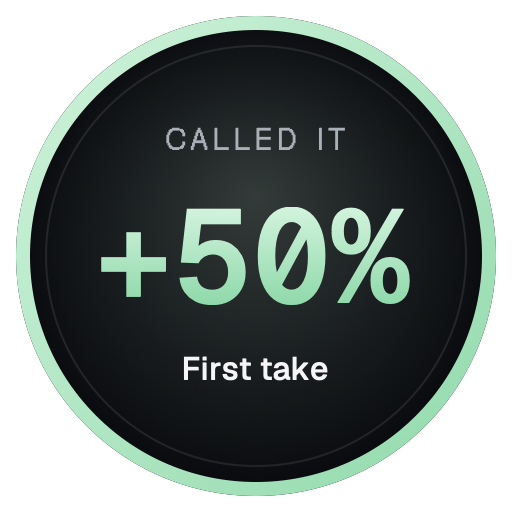
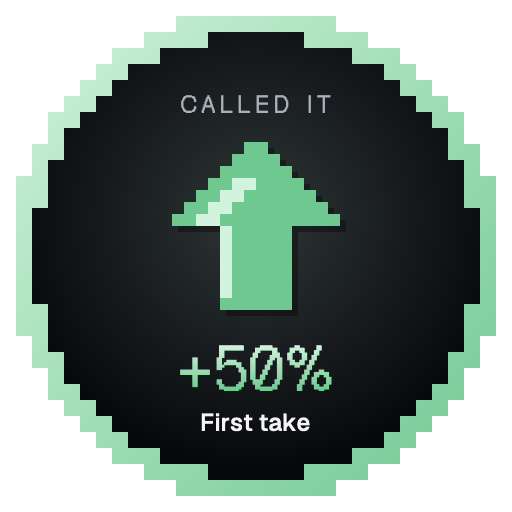
Badges: pixel-art medallions
render.swift draws each badge as a dark medallion with a stepped pixel
ring, a 16x16 pixel emblem (speech bubble, arrow, trophy, crown, rocket)
and the figure in Geist Pixel, with the caption under it. Same five slugs
and metadata; images re-rendered.

diff --git a/infra/badges/render.swift b/infra/badges/render.swift
@@ -1,8 +1,9 @@
-// Renders the badge catalog's images (512×512 PNG) into infra/badges/images/.
+// Renders the badge catalog's images (512×512 PNG) into infra/badges/images/: a dark medallion with a
+// stepped pixel ring, a 16×16 pixel emblem, and the figure in the wordmark's pixel font.
 //
 //   swift infra/badges/render.swift
 //
-// CoreGraphics and CoreText only, with the app's Geist fonts and palette
+// CoreGraphics and CoreText only, with the app's Geist and Geist Pixel fonts and palette
 // (apps/ios/Thesis/DesignSystem/Palette.swift), so nothing needs installing. Rerun after changing
 // a design; `pnpm badges:upload` puts the images and their metadata in Supabase Storage.
 import AppKit
@@ -10,7 +11,7 @@ import CoreText
 
 let root = URL(fileURLWithPath: #filePath).deletingLastPathComponent()
 let fonts = root.appendingPathComponent("../../apps/ios/Thesis/Resources/Fonts").standardized
-for name in ["Geist-SemiBold", "Geist-Medium", "GeistMono-SemiBold", "GeistSerif-Regular", "GeistPixel-Square"] {
+for name in ["Geist-Medium", "GeistPixel-Square"] {
     CTFontManagerRegisterFontsForURL(fonts.appendingPathComponent("\(name).ttf") as CFURL, .process, nil)
 }
 
@@ -20,22 +21,119 @@ func rgb(_ hex: UInt32, _ a: CGFloat = 1) -> CGColor {
 
 struct Badge {
     let slug: String
-    /// Small caps over the figure.
+    /// Small caps over the emblem.
     let kicker: String
+    /// A key of `emblems`.
+    let emblem: String
+    /// Under the emblem, in the pixel font.
     let figure: String
-    let figureFont: String
     /// Under the figure.
     let caption: String
-    /// Ring and figure colors, top to bottom.
+    /// Light and dark tone: the ring and figure run between them; the emblem uses the dark
+    /// tone, and the light one for its highlights.
     let colors: [UInt32]
 }
 
 let badges = [
-    Badge(slug: "first-take", kicker: "THESIS", figure: "\u{201C}", figureFont: "GeistSerif-Regular", caption: "First take", colors: [0xF2F3F5, 0x9AA0AA]),
-    Badge(slug: "first-50", kicker: "CALLED IT", figure: "+50%", figureFont: "GeistMono-SemiBold", caption: "First take", colors: [0xC9F2D5, 0x7FD39A]),
-    Badge(slug: "first-100", kicker: "CALLED IT", figure: "+100%", figureFont: "GeistMono-SemiBold", caption: "First take", colors: [0xF6E3A1, 0xE0B44C]),
-    Badge(slug: "ten-50", kicker: "CALLED IT", figure: "10×", figureFont: "GeistMono-SemiBold", caption: "Ten takes at +50%", colors: [0xA9E3BA, 0x6FC7E8]),
-    Badge(slug: "over-1000", kicker: "CALLED IT", figure: "+1,000%", figureFont: "GeistMono-SemiBold", caption: "One take", colors: [0xA9E3BA, 0xF3B6CC, 0xC9B6F3]),
+    Badge(slug: "first-take", kicker: "THESIS", emblem: "quote", figure: "1ST", caption: "First take", colors: [0xF2F3F5, 0x9AA0AA]),
+    Badge(slug: "first-50", kicker: "CALLED IT", emblem: "arrow", figure: "+50%", caption: "First take", colors: [0xC9F2D5, 0x5FBF7E]),
+    Badge(slug: "first-100", kicker: "CALLED IT", emblem: "trophy", figure: "+100%", caption: "First take", colors: [0xF6E3A1, 0xD9A43A]),
+    Badge(slug: "ten-50", kicker: "CALLED IT", emblem: "crown", figure: "10×", caption: "Ten takes at +50%", colors: [0xB8F0F2, 0x4FB3D9]),
+    Badge(slug: "over-1000", kicker: "CALLED IT", emblem: "rocket", figure: "+1,000%", caption: "One take", colors: [0xF3B6CC, 0xA98BEF]),
+]
+
+/// 16×16 pixel emblems, top row first: "#" dark tone, "+" light tone, "." empty.
+let emblems: [String: [String]] = [
+    "quote": [
+        "................",
+        "................",
+        "................",
+        "..############..",
+        ".##############.",
+        ".####+####+####.",
+        ".###++###++####.",
+        ".###++###++####.",
+        ".##############.",
+        ".##############.",
+        "..############..",
+        "...##...........",
+        "...#............",
+        "................",
+        "................",
+        "................",
+    ],
+    "arrow": [
+        "................",
+        ".......##.......",
+        "......####......",
+        ".....######.....",
+        "....##++####....",
+        "...##++######...",
+        "..##++########..",
+        ".##++##########.",
+        ".....+#####.....",
+        ".....+#####.....",
+        ".....+#####.....",
+        ".....+#####.....",
+        ".....+#####.....",
+        ".....+#####.....",
+        ".....######.....",
+        "................",
+    ],
+    "trophy": [
+        "................",
+        "..############..",
+        "##.#+++######.##",
+        "#..#+++######..#",
+        "#..#+++######..#",
+        ".#.#+++######.#.",
+        "...###+######...",
+        "....##+#####....",
+        ".....######.....",
+        "......####......",
+        ".......##.......",
+        ".......##.......",
+        ".....######.....",
+        "....########....",
+        "....#++++++#....",
+        "....########....",
+    ],
+    "crown": [
+        "................",
+        "................",
+        "................",
+        ".#.....##.....#.",
+        ".##....##....##.",
+        ".###..####..###.",
+        ".####.####.####.",
+        ".##############.",
+        ".##############.",
+        ".##+##+##+##+##.",
+        ".##############.",
+        ".++++++++++++++.",
+        ".##############.",
+        "................",
+        "................",
+        "................",
+    ],
+    "rocket": [
+        ".......##.......",
+        "......####......",
+        ".....##++##.....",
+        ".....#++++#.....",
+        ".....######.....",
+        ".....##..##.....",
+        ".....##..##.....",
+        ".....######.....",
+        ".....######.....",
+        "....########....",
+        "...##.####.##...",
+        "..###.####.###..",
+        "..##..++++..##..",
+        "......++++......",
+        ".......++.......",
+        "................",
+    ],
 ]
 
 let size: CGFloat = 512
@@ -86,34 +184,51 @@ func render(_ badge: Badge) throws {
     let center = CGPoint(x: size / 2, y: size / 2)
 
     // Medallion: the app's dark background with a soft glow of the badge's color.
-    let disc = CGRect(x: 16, y: 16, width: size - 32, height: size - 32)
+    let disc = CGRect(x: 24, y: 24, width: size - 48, height: size - 48)
     ctx.saveGState()
     ctx.addEllipse(in: disc)
     ctx.clip()
     ctx.setFillColor(rgb(0x07080B))
     ctx.fill(disc)
-    let glow = CGGradient(colorsSpace: space, colors: [rgb(badge.colors[0], 0.22), rgb(badge.colors[0], 0)] as CFArray, locations: [0, 1])!
-    ctx.drawRadialGradient(glow, startCenter: CGPoint(x: center.x, y: center.y + 60), startRadius: 0, endCenter: center, endRadius: 250, options: [])
+    let glow = CGGradient(colorsSpace: space, colors: [rgb(badge.colors[0], 0.2), rgb(badge.colors[0], 0)] as CFArray, locations: [0, 1])!
+    ctx.drawRadialGradient(glow, startCenter: CGPoint(x: center.x, y: center.y + 40), startRadius: 0, endCenter: CGPoint(x: center.x, y: center.y + 40), endRadius: 256, options: [])
     ctx.restoreGState()
 
-    // Gradient ring, and a hairline inside it.
+    // Stepped pixel ring: the 16 px cells whose centers sit 222–246 px out, filled with the gradient.
+    let cell: CGFloat = 16
+    var ring: [CGRect] = []
+    for y in stride(from: 0, to: size, by: cell) {
+        for x in stride(from: 0, to: size, by: cell) {
+            let d = hypot(x + cell / 2 - center.x, y + cell / 2 - center.y)
+            if d >= 222 && d < 246 { ring.append(CGRect(x: x, y: y, width: cell, height: cell)) }
+        }
+    }
     ctx.saveGState()
-    ctx.setLineWidth(14)
-    ctx.addEllipse(in: disc.insetBy(dx: 7, dy: 7))
-    ctx.replacePathWithStrokedPath()
+    ctx.addRects(ring)
     ctx.clip()
     ctx.drawLinearGradient(gradient, start: CGPoint(x: 0, y: size), end: CGPoint(x: size, y: 0), options: [])
     ctx.restoreGState()
-    ctx.setStrokeColor(rgb(0xFFFFFF, 0.09))
-    ctx.setLineWidth(2)
-    ctx.strokeEllipse(in: disc.insetBy(dx: 30, dy: 30))
 
-    // Kicker, figure, caption.
-    draw(text(badge.kicker, font: "GeistPixel-Square", size: 30, color: rgb(0x9AA0AA), kern: 4), in: ctx, centerY: size * 0.73)
-    let figureSize: CGFloat = badge.figure.count >= 6 ? 92 : badge.figure.count >= 5 ? 112 : badge.figure == "\u{201C}" ? 340 : 132
-    let figureY = badge.figure == "\u{201C}" ? size * 0.51 : size * 0.5
-    drawGradient(text(badge.figure, font: badge.figureFont, size: figureSize, color: rgb(0xFFFFFF)), in: ctx, centerY: figureY, colors: colors)
-    draw(text(badge.caption, font: "Geist-Medium", size: 32, color: rgb(0xF2F3F5)), in: ctx, centerY: size * 0.28)
+    // Emblem: 12 px pixels, 192 px square, its top 130 px from the top; a soft shadow under it.
+    let grid = emblems[badge.emblem]!
+    let px: CGFloat = 12, left: CGFloat = 160, top: CGFloat = 130
+    func pixels(_ dx: CGFloat, _ dy: CGFloat, _ pick: (Character) -> CGColor?) {
+        for (row, line) in grid.enumerated() {
+            for (col, ch) in line.enumerated() {
+                guard let color = pick(ch) else { continue }
+                ctx.setFillColor(color)
+                ctx.fill(CGRect(x: left + CGFloat(col) * px + dx, y: size - top - CGFloat(row + 1) * px - dy, width: px, height: px))
+            }
+        }
+    }
+    pixels(6, 6) { $0 == "." ? nil : rgb(0x000000, 0.35) }
+    pixels(0, 0) { $0 == "#" ? colors[1] : $0 == "+" ? colors[0] : nil }
+
+    // Kicker, figure, caption (centers measured from the bottom, as CoreGraphics does).
+    draw(text(badge.kicker, font: "GeistPixel-Square", size: 24, color: rgb(0x9AA0AA), kern: 4), in: ctx, centerY: size - 104)
+    let figureSize: CGFloat = badge.figure.count >= 6 ? 50 : badge.figure.count >= 5 ? 58 : 64
+    drawGradient(text(badge.figure, font: "GeistPixel-Square", size: figureSize, color: rgb(0xFFFFFF)), in: ctx, centerY: size - 368, colors: colors)
+    draw(text(badge.caption, font: "Geist-Medium", size: 24, color: rgb(0xF2F3F5)), in: ctx, centerY: size - 422)
 
     let out = root.appendingPathComponent("images/\(badge.slug).png")
     try FileManager.default.createDirectory(at: out.deletingLastPathComponent(), withIntermediateDirectories: true)
